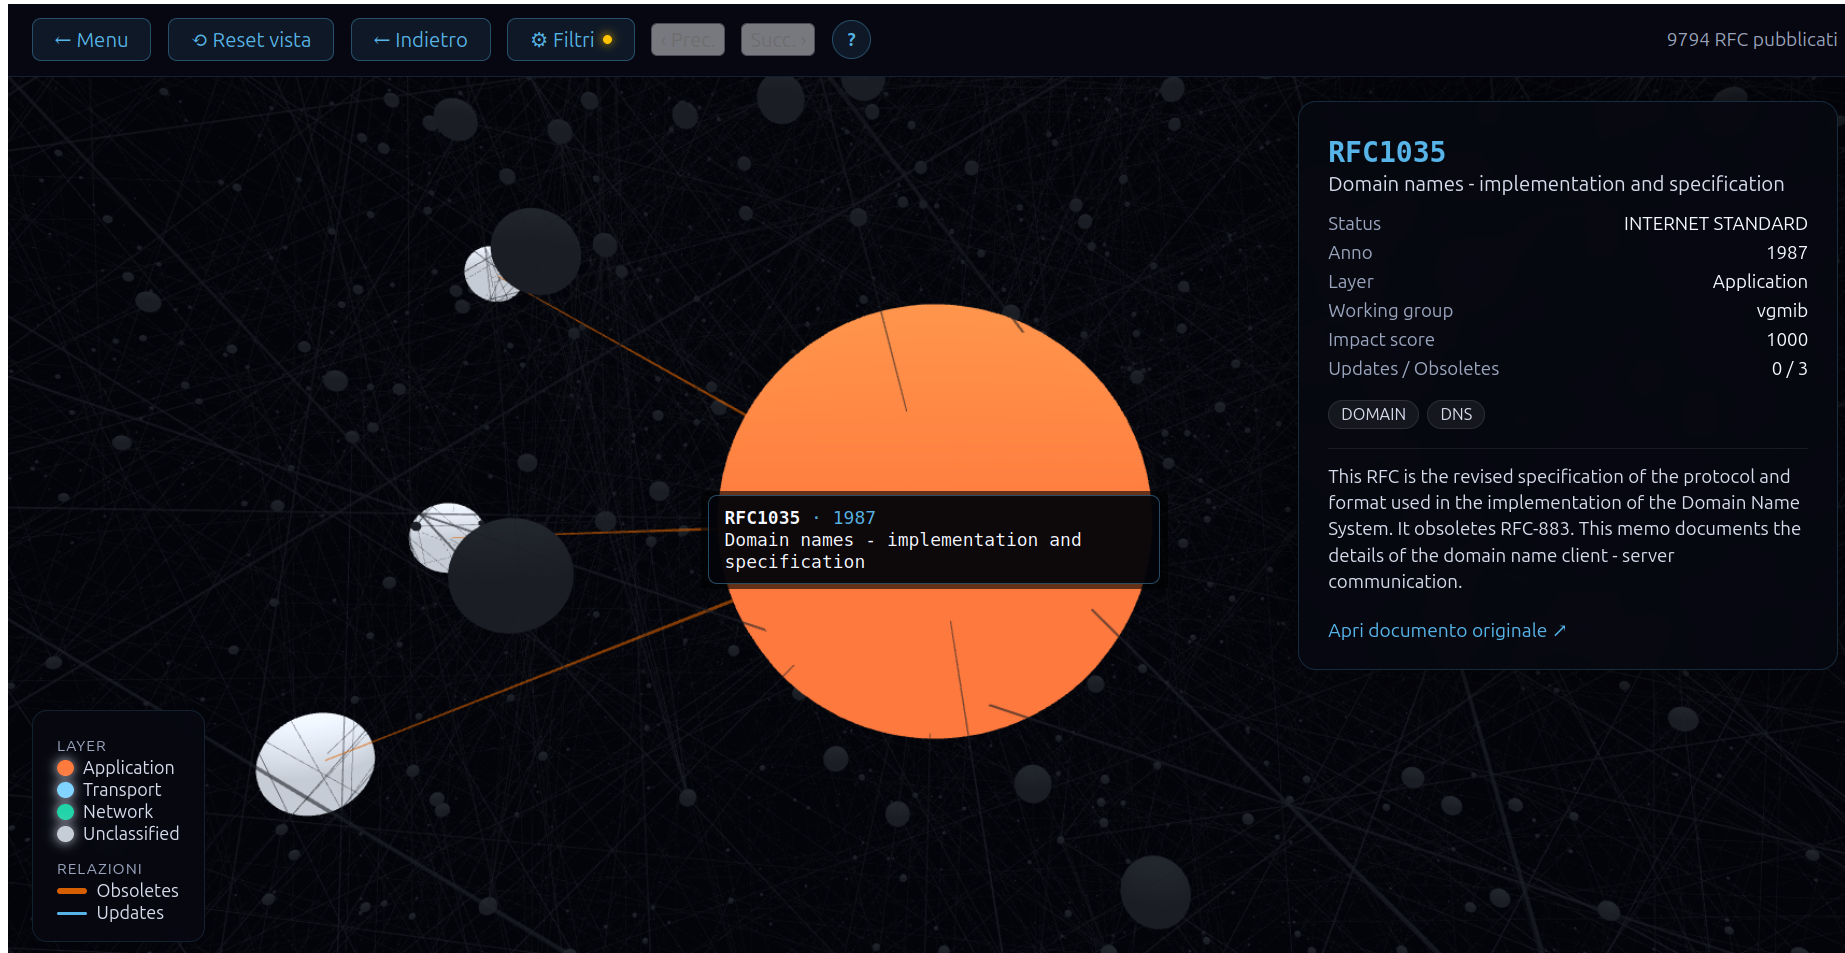
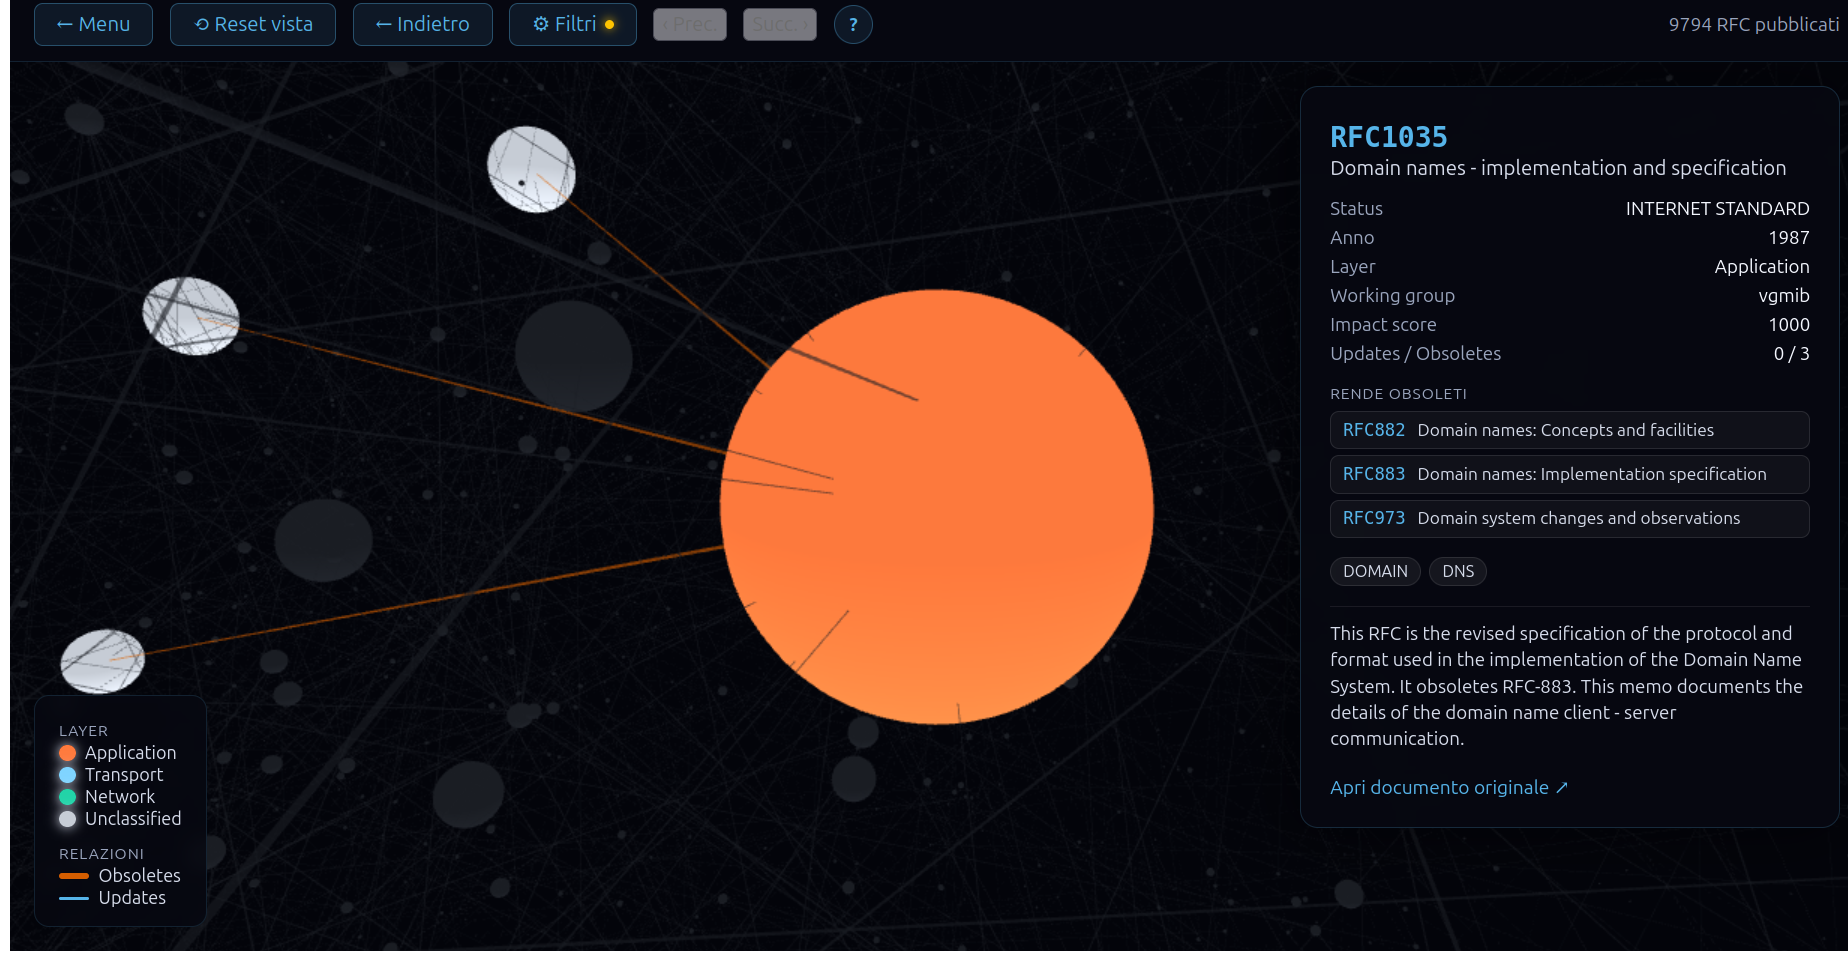
Update images, graph-canvas components and aggiornamenti_e_proposte_2.md

diff --git a/infovis/src/app/components/graph-canvas/graph-canvas.component.scss b/infovis/src/app/components/graph-canvas/graph-canvas.component.scss
@@ -339,6 +339,70 @@
   }
 }
 
+.relation-group {
+  margin: 0 0 0.8rem;
+
+  &:last-of-type {
+    margin-bottom: 0.8rem;
+  }
+}
+
+.relation-title {
+  display: block;
+  font-size: 0.65rem;
+  text-transform: uppercase;
+  letter-spacing: 0.06em;
+  color: #9aa5bd;
+  margin-bottom: 0.3rem;
+}
+
+.relation-list {
+  list-style: none;
+  margin: 0;
+  padding: 0;
+  display: flex;
+  flex-direction: column;
+  gap: 0.25rem;
+  max-height: 8rem;
+  overflow-y: auto;
+}
+
+.relation-item {
+  display: flex;
+  align-items: baseline;
+  gap: 0.5rem;
+  width: 100%;
+  background: rgba(255, 255, 255, 0.04);
+  border: 1px solid rgba(255, 255, 255, 0.1);
+  border-radius: 6px;
+  padding: 0.3rem 0.5rem;
+  font: inherit;
+  color: inherit;
+  text-align: left;
+  cursor: pointer;
+  transition: background 0.15s ease, border-color 0.15s ease;
+
+  &:hover {
+    background: rgba(86, 180, 233, 0.16);
+    border-color: rgba(86, 180, 233, 0.45);
+  }
+}
+
+.relation-id {
+  flex-shrink: 0;
+  font-family: 'IBM Plex Mono', monospace;
+  font-size: 0.72rem;
+  color: #56B4E9;
+}
+
+.relation-rfc-title {
+  font-size: 0.72rem;
+  color: #d6dceb;
+  overflow: hidden;
+  text-overflow: ellipsis;
+  white-space: nowrap;
+}
+
 .keywords {
   display: flex;
   flex-wrap: wrap;

diff --git a/infovis/src/app/components/graph-canvas/graph-canvas.component.ts b/infovis/src/app/components/graph-canvas/graph-canvas.component.ts
@@ -77,6 +77,16 @@ export class GraphCanvasComponent implements AfterViewInit, OnDestroy {
   readonly minYear = this.graphData.minYear;
   readonly maxYear = this.graphData.maxYear;
   readonly selectedNode = signal<GraphNode | null>(null);
+  /** RFC aggiornati dal nodo selezionato (link uscenti di tipo "Updates"),
+   *  mostrati nel pannello di dettaglio come voci cliccabili. */
+  readonly selectedNodeUpdates = computed<GraphNode[]>(() =>
+    this.relatedNodesFor(this.selectedNode(), 'Updates'),
+  );
+  /** RFC resi obsoleti dal nodo selezionato (link uscenti di tipo
+   *  "Obsoletes"), mostrati nel pannello di dettaglio come voci cliccabili. */
+  readonly selectedNodeObsoletes = computed<GraphNode[]>(() =>
+    this.relatedNodesFor(this.selectedNode(), 'Obsoletes'),
+  );
   readonly filtersOpen = signal(false);
   /** Overlay dei comandi mouse: visibile alla prima apertura, richiudibile
    *  e riapribile in qualunque momento dal pulsante "?" in toolbar. */
@@ -891,6 +901,34 @@ export class GraphCanvasComponent implements AfterViewInit, OnDestroy {
 
   docUrl(node: GraphNode): string | null {
     return resolveDocUrl(node);
+  }
+
+  /** Nodi raggiunti da un link USCENTE dal nodo dato, del tipo richiesto
+   *  ('Updates' o 'Obsoletes'). Usato per popolare le liste cliccabili nel
+   *  pannello di dettaglio (selectedNodeUpdates / selectedNodeObsoletes). */
+  private relatedNodesFor(node: GraphNode | null, type: 'Updates' | 'Obsoletes'): GraphNode[] {
+    if (!node) return [];
+    const fullData = this.graphData.graphData();
+    const targetIds: string[] = [];
+    for (const l of fullData.links) {
+      if (l.type !== type) continue;
+      const sourceId = typeof l.source === 'string' ? l.source : l.source.id;
+      if (sourceId !== node.id) continue;
+      const targetId = typeof l.target === 'string' ? l.target : l.target.id;
+      targetIds.push(targetId);
+    }
+    return targetIds
+      .map(id => this.graphData.getNode(id))
+      .filter((n): n is GraphNode => !!n);
+  }
+
+  /** Click su un RFC elencato nel pannello di dettaglio (aggiornati /
+   *  resi obsoleti dal nodo corrente): sposta il focus su quel nodo,
+   *  riusando la stessa logica di selezione/camera/cronologia del click
+   *  diretto sul grafo. */
+  selectRelatedNode(id: string): void {
+    const node = this.graphData.getNode(id);
+    if (node) this.focusOn(node);
   }
 
   toggleDecade(decade: number): void {

diff --git a/infovis/src/app/components/graph-canvas/graph-canvas.component.html b/infovis/src/app/components/graph-canvas/graph-canvas.component.html
@@ -140,6 +140,38 @@
           <dt>Updates / Obsoletes</dt><dd>{{ node.n_updates }} / {{ node.n_obsoletes }}</dd>
         </dl>
 
+        @if (selectedNodeUpdates().length > 0) {
+          <div class="relation-group">
+            <span class="relation-title">Aggiorna</span>
+            <ul class="relation-list">
+              @for (rfc of selectedNodeUpdates(); track rfc.id) {
+                <li>
+                  <button type="button" class="relation-item" (click)="selectRelatedNode(rfc.id)">
+                    <span class="relation-id">{{ rfc.id }}</span>
+                    <span class="relation-rfc-title">{{ rfc.title }}</span>
+                  </button>
+                </li>
+              }
+            </ul>
+          </div>
+        }
+
+        @if (selectedNodeObsoletes().length > 0) {
+          <div class="relation-group">
+            <span class="relation-title">Rende obsoleti</span>
+            <ul class="relation-list">
+              @for (rfc of selectedNodeObsoletes(); track rfc.id) {
+                <li>
+                  <button type="button" class="relation-item" (click)="selectRelatedNode(rfc.id)">
+                    <span class="relation-id">{{ rfc.id }}</span>
+                    <span class="relation-rfc-title">{{ rfc.title }}</span>
+                  </button>
+                </li>
+              }
+            </ul>
+          </div>
+        }
+
         @if (node.keywords && node.keywords.length > 0) {
           <div class="keywords">
             @for (kw of node.keywords; track kw) {

diff --git a/docs/Progetto_Infovis/aggiornamenti_e_proposte/aggiornamenti_e_proposte_2.md b/docs/Progetto_Infovis/aggiornamenti_e_proposte/aggiornamenti_e_proposte_2.md
@@ -380,3 +380,11 @@ Il punto 9.3 descriveva, per la vista timeline, solo il cambio del cursore in "p
 ### 13.4 Conteggio documenti per working group nel pannello filtri (`DraftTimelineComponent`)
 
 Il punto 9.4 descriveva il filtro per working group come concettualmente identico a quello del grafo 3D, ma nella vista timeline ogni voce del filtro mostra ora anche **quanti documenti** appartengono a quel gruppo (`workingGroupCounts`, calcolato una sola volta a fine caricamento da `computeWorkingGroupCounts()`, con la stessa logica di fallback su `NO_WORKING_GROUP` usata per disegnare le colonne). Il contatore in toolbar è stato aggiornato di conseguenza per mostrare, quando un filtro è attivo, sia il numero di documenti coperti dal filtro sia il totale (`filteredCount() / totalCount()`), invece del solo totale. Questa granularità non è presente nel pannello filtri del grafo 3D (punto 8.4), che mostra le voci senza conteggio accanto — un'asimmetria tra le due viste non ancora discussa né motivata nel codice.
+
+### 13.5 Elenco cliccabile degli RFC aggiornati/resi obsoleti nel pannello di dettaglio (`GraphCanvasComponent`)
+
+Il punto 8.5 descriveva il pannello di dettaglio come limitato ai campi anagrafici del nodo (status, anno, layer, working group, impact score, keyword chips, abstract) più il solo **conteggio** numerico `Updates / Obsoletes` (`node.n_updates` / `node.n_obsoletes`). Il pannello ora espone anche l'**elenco puntuale** di quegli RFC, non solo il conteggio, in due sezioni condizionali — "Aggiorna" e "Rende obsoleti" — visibili solo se il nodo ha effettivamente relazioni in uscita di quel tipo:
+
+- Due nuovi segnali calcolati, `selectedNodeUpdates` e `selectedNodeObsoletes`, derivano dal nodo attualmente selezionato: scorrono i link **uscenti** dal nodo nel dataset completo (`GraphDataService.graphData()`), li filtrano per `type` (`'Updates'` o `'Obsoletes'`) e risolvono l'id del nodo target in un `GraphNode` completo tramite `graphData.getNode()`. Essendo `computed()`, si ricalcolano automaticamente ad ogni cambio di `selectedNode()`, senza logica aggiuntiva da richiamare a mano.
+- Ogni RFC elencato è un bottone cliccabile (id monospazio + titolo, con ellissi se troppo lungo): il click richiama `selectRelatedNode(id)`, che recupera il nodo tramite `graphData.getNode()` e lo passa alla stessa `focusOn()` usata dal click diretto sul grafo (punto 8.5) — quindi camera, evidenziazione dei vicini ed **entrata nella cronologia di navigazione** (punto 13.1) si comportano in modo identico, e il pulsante "← Indietro" torna correttamente al nodo di partenza.
+- Questo rende il pannello di dettaglio un vero punto di navigazione tra documenti collegati (es. da un RFC alla lista di quelli che aggiorna, cliccarne uno e vedere a sua volta cosa aggiorna lui), senza dover individuare a occhio i nodi corrispondenti nel grafo 3D o affidarsi solo agli archi visivi.